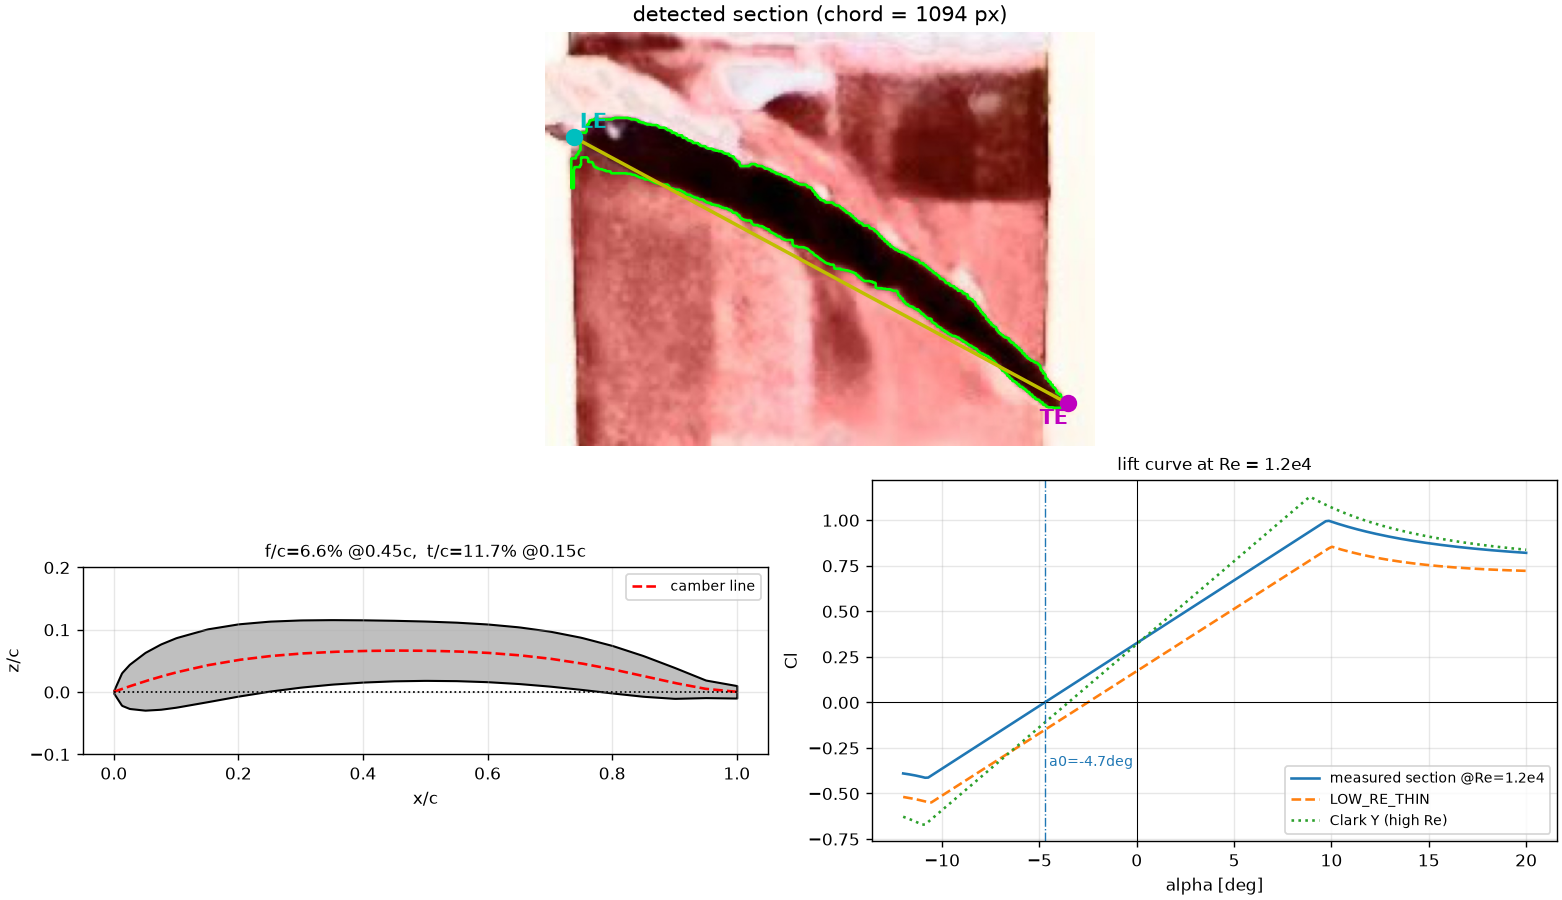
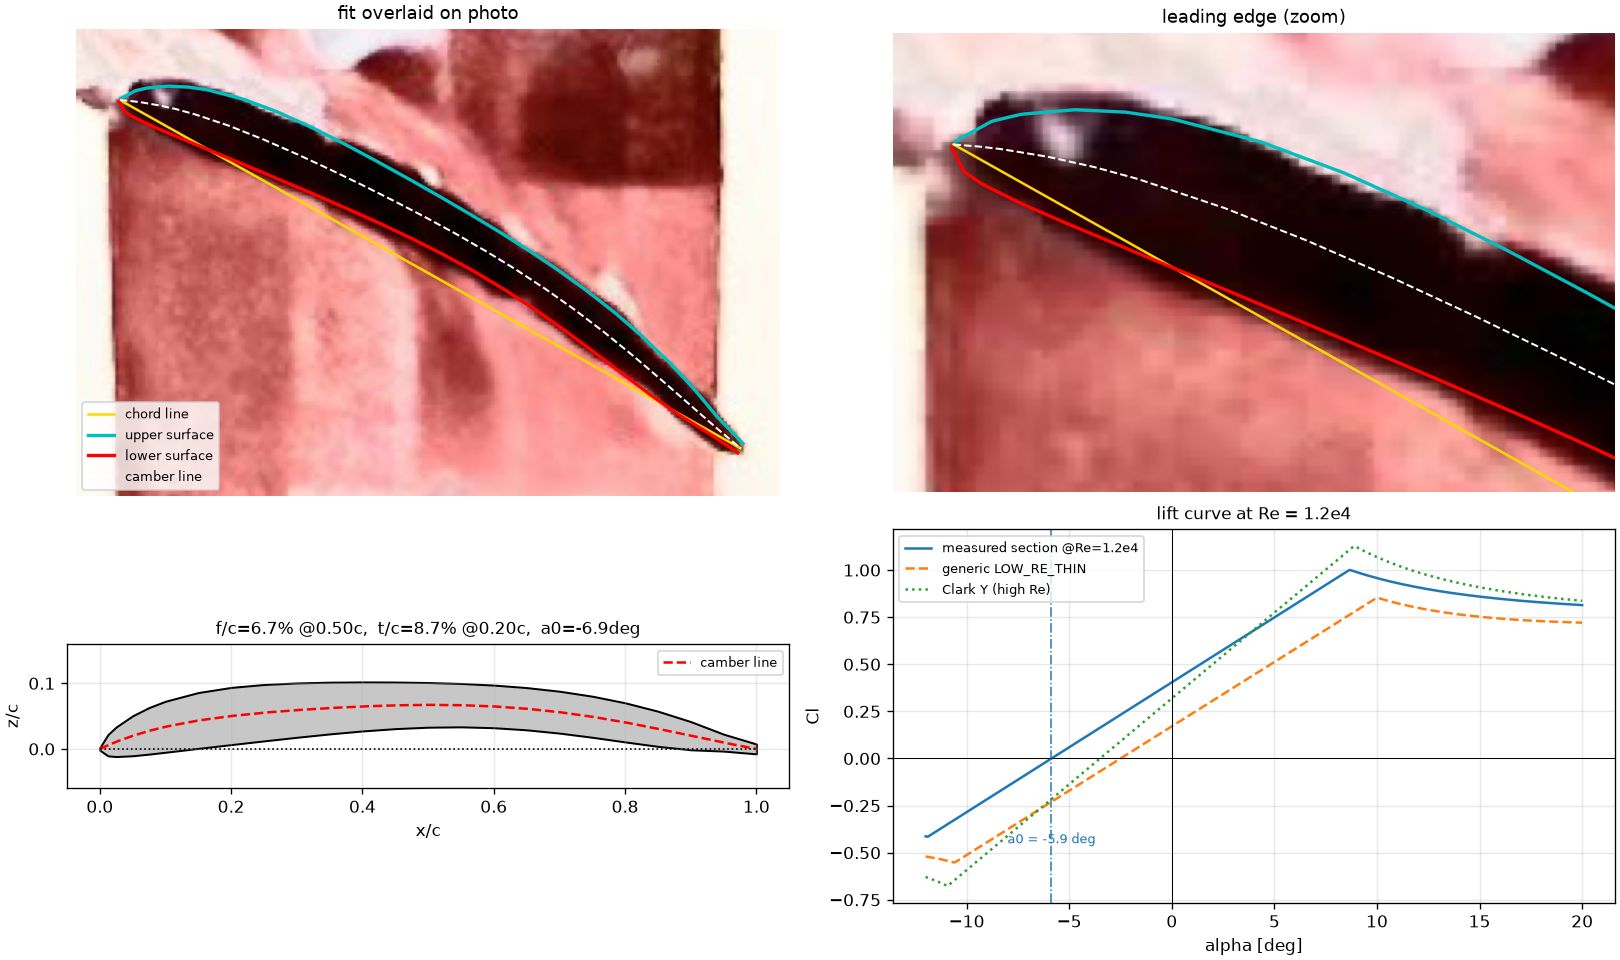
断面の読み取りを修正: 前縁下面の影を断面と誤検出していた
明度だけで 2 値化していたため、前縁下面に落ちた影 (暗い赤) まで断面と
して拾い、下面が実際より 2-3 %c 下側に膨らんでいた。黒塗り部分は明度が
低くかつ彩度も低い (gray < 85 かつ sat < 50) のに対し、影は彩度が高い
(sat > 60) ので、この 2 条件で分離できる。薄くて背景と紛れやすい後縁側
(x/c > 0.7) だけは緩い閾値の結果を併用して後縁の位置を保つ。

読み取り値の変化:
- 最大厚み t/c: 11.7% @0.16 -> 8.7% @0.20
- 最大キャンバ f/c: 6.6% @0.46 -> 6.7% @0.50 (ほぼ変わらず)
- x/c=0.05 の下面: -2.9%c -> -1.0%c (ほぼ翼弦線に乗る)
- 薄翼理論: alpha0 = -5.15 -> -6.90 deg, cl_i = 0.76 -> 0.92,
  cm_ac = -0.122 -> -0.175

キャンバ位置が中央寄りになり後縁の荷重抜けが減ったぶん alpha0 の絶対値
が増え、30,000 rpm の推力は 9.85 -> 10.48 gf、36.8 g 機体のホバー回転数
は 29,010 -> 28,140 rpm になった。閾値を 80-95 に振ったときの読み取り幅は
t/c が 8.7-9.6%、f/c が 6.7-7.2% で、性能を左右するキャンバの方が安定して
いる。

検証用の図を、輪郭の表示から「当てはめた上下面を写真に重ね描きする」形に
変更した。前縁の拡大も併記している。下面が前縁付近で翼弦線に乗ることを
確認するテストも追加。

diff --git a/prop_sim/presets.py b/prop_sim/presets.py
@@ -60,35 +60,39 @@ STAMPFLY_1209_SWEEP_DEG = np.array([
 ])
 
 #: 切断面の写真から読み取った翼断面 (x/c, キャンバ z/c, 厚み t/c).
-#: 断面を黒く塗った写真を 2 値化し, 最遠点対を前縁-後縁として
-#: コード系に回転したうえで, 半径方向 120 分割の上下面から
-#: キャンバ線と厚み分布を求め, 多項式で平滑化したもの.
+#:
+#: 黒く塗った断面を「明度が低く かつ 彩度も低い」画素として抽出する
+#: (gray < 85 かつ sat < 50). 明度だけで切ると前縁下面に落ちた影 (暗い赤)
+#: まで拾ってしまい, 下面が実際より 2-3 %c 下側に膨らむ.
+#: 薄くて背景と紛れやすい後縁側 (x/c > 0.7) だけ緩い閾値の結果を併用する.
+#: そのうえで最遠点対を前縁-後縁としてコード系に回転し, コード方向
+#: 100 分割の上下面からキャンバ線と厚み分布を求めて多項式で平滑化した.
 _STAMPFLY_1209_SECTION = np.array([
     #  x/c     z/c      t/c
-    [0.0000, 0.00000, 0.00500],
-    [0.0125, 0.00442, 0.05224],
-    [0.0250, 0.00872, 0.07098],
-    [0.0500, 0.01687, 0.09264],
-    [0.0750, 0.02436, 0.10472],
-    [0.1000, 0.03115, 0.11165],
-    [0.1500, 0.04254, 0.11687],
-    [0.2000, 0.05113, 0.11596],
-    [0.2500, 0.05728, 0.11235],
-    [0.3000, 0.06145, 0.10786],
-    [0.3500, 0.06410, 0.10354],
-    [0.4000, 0.06560, 0.09991],
-    [0.4500, 0.06621, 0.09716],
-    [0.5000, 0.06599, 0.09523],
-    [0.5500, 0.06484, 0.09386],
-    [0.6000, 0.06254, 0.09262],
-    [0.6500, 0.05876, 0.09096],
-    [0.7000, 0.05321, 0.08820],
-    [0.7500, 0.04569, 0.08357],
-    [0.8000, 0.03626, 0.07621],
-    [0.8500, 0.02542, 0.06521],
-    [0.9000, 0.01427, 0.04955],
-    [0.9500, 0.00478, 0.02819],
-    [1.0000, 0.00000, 0.02000],
+    [0.0000, 0.00000, 0.00400],
+    [0.0125, 0.00573, 0.03261],
+    [0.0250, 0.01096, 0.04511],
+    [0.0500, 0.02004, 0.06086],
+    [0.0750, 0.02758, 0.07092],
+    [0.1000, 0.03382, 0.07770],
+    [0.1500, 0.04337, 0.08507],
+    [0.2000, 0.05015, 0.08711],
+    [0.2500, 0.05520, 0.08590],
+    [0.3000, 0.05913, 0.08279],
+    [0.3500, 0.06228, 0.07880],
+    [0.4000, 0.06473, 0.07468],
+    [0.4500, 0.06641, 0.07099],
+    [0.5000, 0.06714, 0.06807],
+    [0.5500, 0.06668, 0.06606],
+    [0.6000, 0.06479, 0.06492],
+    [0.6500, 0.06127, 0.06434],
+    [0.7000, 0.05602, 0.06381],
+    [0.7500, 0.04905, 0.06256],
+    [0.8000, 0.04050, 0.05958],
+    [0.8500, 0.03071, 0.05356],
+    [0.9000, 0.02018, 0.04292],
+    [0.9500, 0.00963, 0.02580],
+    [1.0000, 0.00000, 0.01500],
 ])
 
 #: 上の表を :class:`~prop_sim.section.SectionShape` にしたもの.
@@ -133,13 +137,13 @@ STAMPFLY_1209_MEASURED = {
     "blade_area_ratio": 0.383,      # 投影面積 / ディスク面積
     "tip_sweep_deg": 34.5,
     "section_source": "IMG_3720.jpeg (切断面を黒塗りした写真)",
-    "section_thickness_max": 0.117,     # t/c
-    "section_thickness_max_x": 0.16,
-    "section_camber_max": 0.066,        # f/c
-    "section_camber_max_x": 0.46,
-    "section_alpha0_deg_inviscid": -5.15,   # 薄翼理論
-    "section_cl_ideal": 0.759,
-    "section_cm_ac": -0.122,
+    "section_thickness_max": 0.087,     # t/c
+    "section_thickness_max_x": 0.20,
+    "section_camber_max": 0.067,        # f/c
+    "section_camber_max_x": 0.50,
+    "section_alpha0_deg_inviscid": -6.90,   # 薄翼理論
+    "section_cl_ideal": 0.923,
+    "section_cm_ac": -0.175,
     "estimated_mass_g": 0.26,       # 面積 x 板厚 0.55mm/ハブ 2.0mm x PC 1.20 g/cm^3
     "polar_inertia_kgm2": 1.67e-8,  # 上記質量分布から (= 0.264 m R^2)
 }

diff --git a/tests/test_section.py b/tests/test_section.py
@@ -114,13 +114,24 @@ def test_bubble_penalty_scales_drag():
 # ------------------------------------------------------- StampFly の断面
 def test_stampfly_section_matches_photo_measurement():
     p = STAMPFLY_1209_SECTION.thin_airfoil_properties()
-    assert p.thickness_max == pytest.approx(0.117, abs=0.005)
-    assert p.camber_max == pytest.approx(0.066, abs=0.005)
-    assert 0.35 < p.camber_max_x < 0.55
-    assert 0.10 < p.thickness_max_x < 0.25
-    assert p.alpha0_deg == pytest.approx(-5.4, abs=0.7)
-    assert 0.6 < p.cl_ideal < 0.95
-    assert -0.20 < p.cm_ac < -0.05
+    assert p.thickness_max == pytest.approx(0.087, abs=0.006)
+    assert p.camber_max == pytest.approx(0.067, abs=0.006)
+    assert 0.42 < p.camber_max_x < 0.58
+    assert 0.15 < p.thickness_max_x < 0.28
+    assert p.alpha0_deg == pytest.approx(-6.9, abs=0.8)
+    assert 0.8 < p.cl_ideal < 1.1
+    assert -0.25 < p.cm_ac < -0.10
+
+
+def test_stampfly_section_lower_surface_hugs_chord_near_leading_edge():
+    """前縁付近の下面はほぼ翼弦線に乗る (影を断面と誤検出しないこと)."""
+    s = STAMPFLY_1209_SECTION.resample(200)
+    lower = np.interp([0.05, 0.10, 0.20], s.x, s.lower)
+    assert np.all(lower > -0.02)
+    assert np.all(np.abs(lower) < 0.02)
+    # 上面は逆にしっかり盛り上がっている
+    upper = np.interp([0.05, 0.10, 0.20], s.x, s.upper)
+    assert np.all(upper > 0.04)
 
 
 def test_stampfly_airfoil_is_reasonable_at_low_reynolds():
